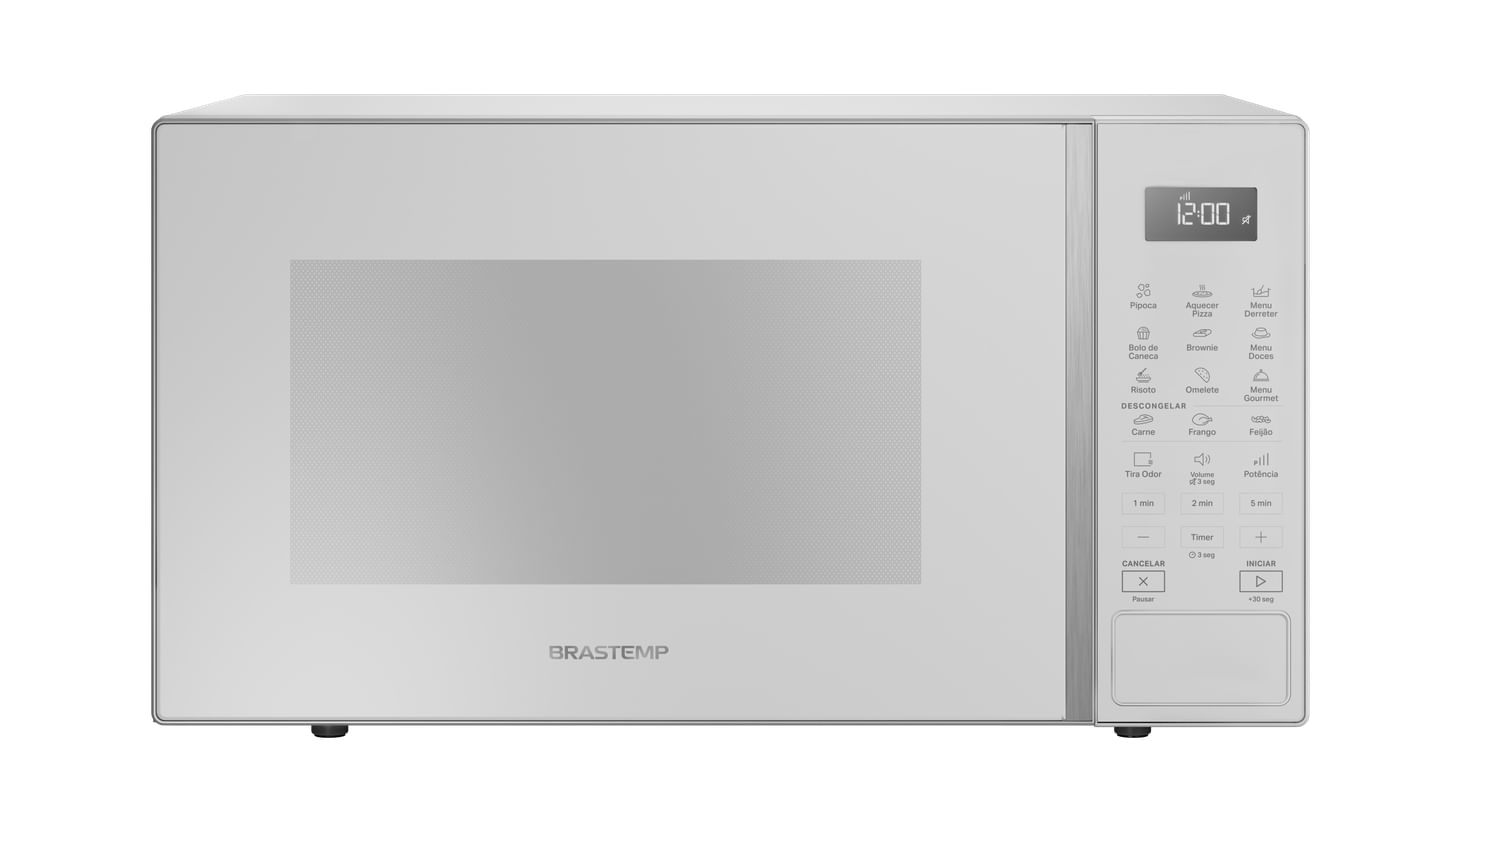
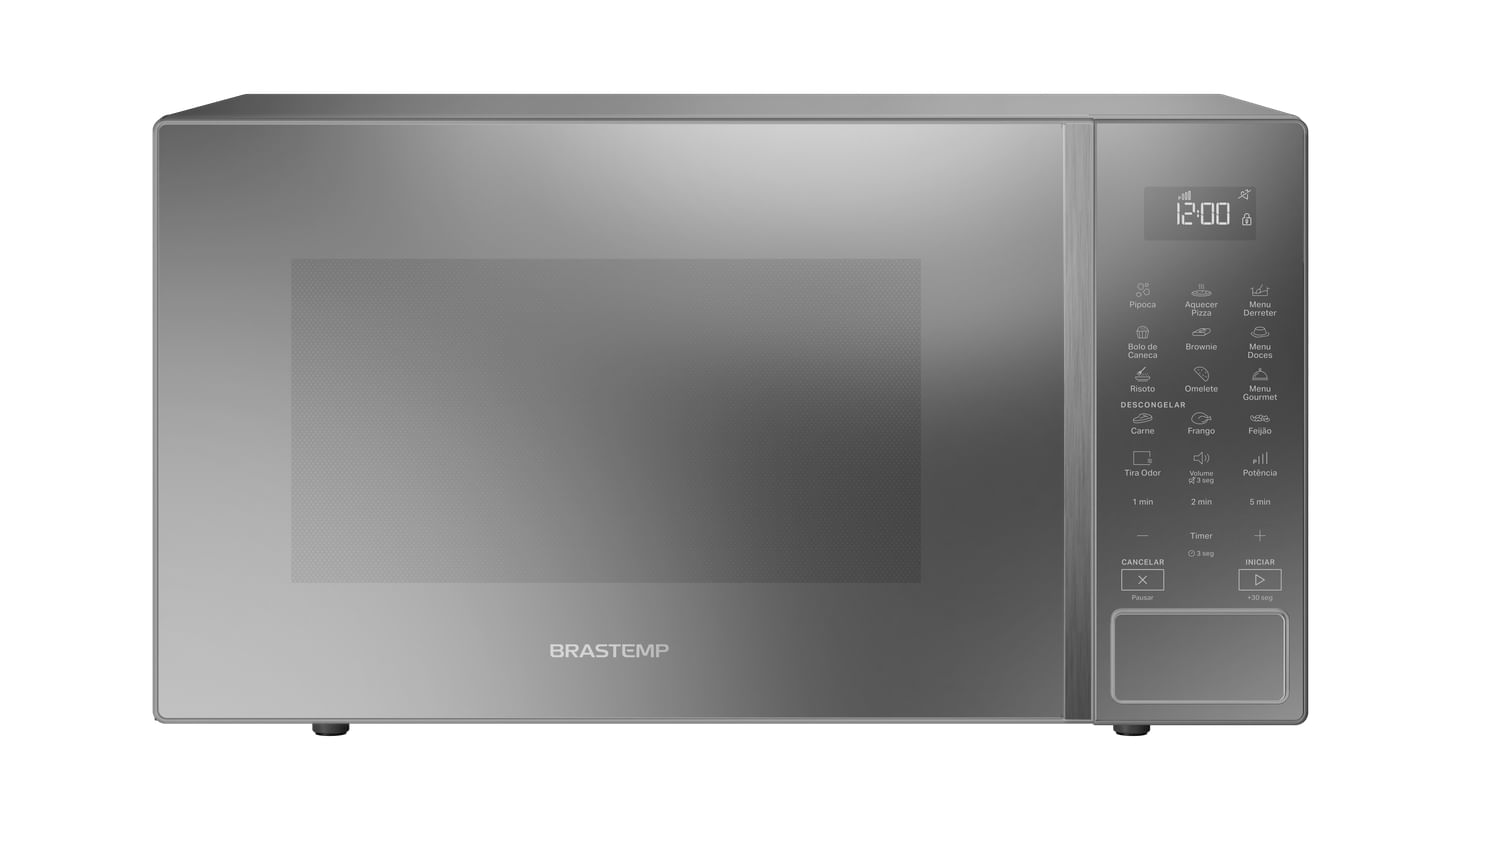
chore: updates

diff --git a/src/data/gifts.ts b/src/data/gifts.ts
@@ -178,18 +178,22 @@ export const gifts: Gift[] = [
   },
   {
     id: "formas-bolo",
-    name: "Formas para bolo",
-    description: "Kit de formas antiaderentes para bolos e sobremesas.",
-    priceInCents: 14300,
+    name: "Conjunto de formas 7 peças",
+    description: "Benditolar / Arary — formas polidas para bolo, pizza, pão e assados.",
+    priceInCents: 12990,
     image: "/images/gifts/formas-bolo.jpg",
+    productUrl:
+      "https://www.mercadolivre.com.br/conjunto-de-formas-polidas-benditolar-7-pecas-cor-polido/p/MLB53012283",
     presented: false,
   },
   {
     id: "jogo-facas",
     name: "Jogo de facas",
-    description: "Kit de facas Tramontina para o dia a dia.",
-    priceInCents: 19300,
+    description: "Tramontina Plenus off-white — aço inox, 8 peças.",
+    priceInCents: 11495,
     image: "/images/gifts/jogo-facas.jpg",
+    productUrl:
+      "https://www.tramontina.com.br/jogo-de-facas-tramontina-plenus-com-laminas-em-aco-inox-e-cabos-de-polipropileno-off-white-8-pecas/23498332.html",
     presented: false,
   },
   {
@@ -263,14 +267,6 @@ export const gifts: Gift[] = [
     presented: false,
   },
   {
-    id: "cafeteira",
-    name: "Cafeteira",
-    description: "Cafeteira Britânia CP15 — café fresquinho no dia a dia.",
-    priceInCents: 10990,
-    image: "/images/gifts/cafeteira.jpg",
-    presented: false,
-  },
-  {
     id: "sanduicheira",
     name: "Sanduicheira",
     description: "Britânia BGR16 Redstone — cores claras.",
@@ -332,8 +328,9 @@ export const gifts: Gift[] = [
   },
   {
     id: "jogo-cama-king",
-    name: "Jogo de cama king",
-    description: "Jogo de cama percal — conforto para o quarto.",
+    name: "Jogo de cama",
+    description:
+      "Zelo Alexandre Herchcovitch — Queen, percal 180 fios, 100% algodão.",
     priceInCents: 29750,
     image: "/images/gifts/jogo-cama-king.jpg",
     productUrl:
@@ -411,9 +408,11 @@ export const gifts: Gift[] = [
   {
     id: "microondas-brastemp",
     name: "Micro-ondas",
-    description: "Brastemp 32L branco com menu gourmet (BMS46AB).",
-    priceInCents: 75900,
+    description: "Brastemp 32L cinza espelhado com menu gourmet (BMS46AR).",
+    priceInCents: 87327,
     image: "/images/gifts/microondas-brastemp.jpg",
+    productUrl:
+      "https://www.brastemp.com.br/micro-ondas-brastemp-32-litros-cor-cinza-espelhado-com-menu-gourmet-bms46ar/p?idsku=326030627",
     presented: false,
   },
   {
@@ -456,10 +455,12 @@ export const gifts: Gift[] = [
   },
   {
     id: "sofa",
-    name: "Sofá",
-    description: "Sofá 3 lugares — referência Tok&Stok.",
-    priceInCents: 169900,
+    name: "Sofá-cama Fasano",
+    description: "Casa Box — sofá-cama retrátil com molas ensacadas (à vista).",
+    priceInCents: 307402,
     image: "/images/gifts/sofa.jpg",
+    productUrl:
+      "https://www.casabox.com.br/moveis/sala-de-estar/sofas-cama/sofa-cama-fasano-sem-caixa-molas-ensacadas?parceiro=4446&variant_id=17410",
     presented: false,
   },
   {
@@ -472,10 +473,12 @@ export const gifts: Gift[] = [
   },
   {
     id: "guarda-roupa",
-    name: "Guarda-roupa",
-    description: "Guarda-roupa casal 3 portas.",
-    priceInCents: 133331,
+    name: "Guarda-roupa Isabela",
+    description: "Casas Bahia — casal com espelho, 3 portas de correr.",
+    priceInCents: 234001,
     image: "/images/gifts/guarda-roupa.jpg",
+    productUrl:
+      "https://www.casasbahia.com.br/guarda-roupa-casal-com-espelho-3-portas-de-correr-isabela/p/12839733",
     presented: false,
   },
   {

diff --git a/src/data/wedding.ts b/src/data/wedding.ts
@@ -5,8 +5,8 @@ export const wedding = {
   tagline:
     "Diante da vastidão do tempo e da imensidão do universo, é um imenso prazer para mim dividir um planeta e uma época com você",
   dateLabel: "13. 12. 2026.",
-  /** Local noon — countdown target */
-  dateISO: "2026-12-13T12:00:00-03:00",
+  /** Ceremony at 15h — countdown target */
+  dateISO: "2026-12-13T15:00:00-03:00",
   venue: {
     name: "Star Eventos",
     street: "Rua Mario Maruca, SN",
@@ -23,9 +23,9 @@ export const wedding = {
     eyebrow: "Nossa história",
     title: "Um capítulo escrito a quatro mãos",
     body: [
-      "O que começou com conversas leves virou certeza. Entre risadas, viagens e o cotidiano, escolhemos construir uma vida juntos — com carinho, paciência e muito amor.",
-      "Acreditamos que foi Jesus quem uniu nossos caminhos e continua sendo o centro da nossa história. É Nele que firmamos este compromisso de caminhar lado a lado.",
-      "No dia 13 de dezembro de 2026, celebramos esse sim cercados das pessoas que fazem parte da nossa história. Sua presença é o nosso maior presente.",
+      "O que começou em conversas simples virou o melhor lugar do mundo: um no outro. Com o tempo, o riso e o cuidado do dia a dia se tornaram a certeza de que queríamos caminhar juntos.",
+      "Acreditamos que foi Jesus quem uniu nossos caminhos e continua sendo o centro da nossa história. É Nele que firmamos este compromisso de amar, servir e crescer lado a lado.",
+      "No dia 13 de dezembro de 2026, às 15h, celebramos esse sim cercados de quem amamos. Sua presença é o nosso maior presente.",
     ],
     signature: "Com amor,",
   },
@@ -79,8 +79,8 @@ export const wedding = {
   ],
   pix: {
     /** Exact key to copy into bank apps */
-    key: "11941601956",
-    typeLabel: "Telefone",
-    displayLabel: "(11) 94160-1956",
+    key: "35679201895",
+    typeLabel: "CPF",
+    displayLabel: "356.792.018-95",
   },
 } as const;

diff --git a/src/components/gift-payment-sheet.tsx b/src/components/gift-payment-sheet.tsx
@@ -132,8 +132,8 @@ export function GiftPaymentSheet({
                 {formatBRL(gift.priceInCents)}
               </p>
               <p className="mt-2 text-sm leading-relaxed text-muted">
-                Pague este valor via PIX para o telefone abaixo. É rápido e chega
-                direto para nós.
+                Pague este valor via PIX para a chave CPF abaixo. É rápido e
+                chega direto para nós.
               </p>
 
               <div className="mt-6 rounded-2xl border border-line bg-cream/80 p-4 sm:p-5">
@@ -167,7 +167,7 @@ export function GiftPaymentSheet({
                 <li className="flex gap-3">
                   <span className="font-serif text-accent">2.</span>
                   <span>
-                    Cole a chave (telefone) e confira o valor{" "}
+                    Cole a chave (CPF) e confira o valor{" "}
                     <span className="text-ink">
                       {formatBRL(gift.priceInCents)}
                     </span>
